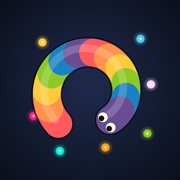
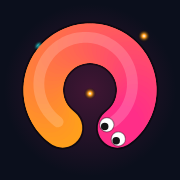
Rebrand with the Hot Sauce gradient instead of the rainbow (v1.8.0)
- Brand tokens in style.css: the "feast" wordmark and every primary
  button (Play, Play again, Resume, Back, Play here, update Reload) use
  the pink-to-orange Hot Sauce gradient with dark text.
- New app icons, Apple touch icon and favicon: the curled worm in the
  brand gradient on navy, inside the maskable safe zone, same file names.
  They are drawn by tools/make-icons.js (headless Chrome via the test
  helper); tools/ is exempt from the release bump.
- The browser theme colour stays arena navy.

Includes the OpenSpec change rebrand-hot-sauce.

Closes #59

diff --git a/tools/make-icons.js b/tools/make-icons.js
@@ -1,0 +1,97 @@
+#!/usr/bin/env node
+// Draws the app icons in the Hot Sauce brand colours (#59) and writes them to icons/.
+// Usage: node tools/make-icons.js   (needs Google Chrome; set CHROME_PATH if it isn't found)
+// Not part of the game: the release check ignores tools/. Commit the PNGs it writes.
+const fs = require('node:fs');
+const path = require('node:path');
+const { launch, REPO } = require('../tests/helpers/browser');
+
+// [file, size, with food dots]. The 512 icon is also the maskable one (manifest.webmanifest).
+const ICONS = [['icon-512.png', 512, true], ['icon-192.png', 192, true], ['apple-touch-icon.png', 180, true], ['favicon-64.png', 64, false]];
+
+// Runs in the browser. The curled worm stays inside the maskable safe zone: the centred
+// circle of 80% of the width (curl radius + body radius + outline <= 0.40 of the size).
+function draw(size, detailed) {
+  const c = document.createElement('canvas');
+  c.width = c.height = size;
+  const g = c.getContext('2d');
+  const TAU = Math.PI * 2, PINK = '#ff2e88', ORANGE = '#ff9f1c';
+  g.fillStyle = '#0b0f1c';
+  g.fillRect(0, 0, size, size);
+  const glow = g.createRadialGradient(size / 2, size / 2, 0, size / 2, size / 2, size * 0.48);
+  glow.addColorStop(0, 'rgba(255, 46, 136, 0.22)');
+  glow.addColorStop(1, 'rgba(255, 46, 136, 0)');
+  g.fillStyle = glow;
+  g.fillRect(0, 0, size, size);
+  if (detailed) {
+    for (const [x, y, col] of [[0.5, 0.52, ORANGE], [0.36, 0.62, PINK], [0.63, 0.66, '#ffd166'], [0.22, 0.26, '#2de2e6'], [0.8, 0.2, ORANGE]]) {
+      const dot = g.createRadialGradient(x * size, y * size, 0, x * size, y * size, size * 0.035);
+      dot.addColorStop(0, '#ffffff');
+      dot.addColorStop(0.3, col);
+      dot.addColorStop(1, 'rgba(0,0,0,0)');
+      g.fillStyle = dot;
+      g.beginPath();
+      g.arc(x * size, y * size, size * 0.035, 0, TAU);
+      g.fill();
+    }
+  }
+  // A C-shaped curl open at the bottom: tail at lower left, head at lower right.
+  const R = size * (detailed ? 0.26 : 0.24), r = size * (detailed ? 0.11 : 0.135), n = 48, P = [];
+  for (let i = 0; i < n; i++) {
+    const a = 2.3 * Math.PI - 1.6 * Math.PI * (i / (n - 1));
+    P.push([size / 2 + Math.cos(a) * R, size / 2 + Math.sin(a) * R]);
+  }
+  const rgb = (h) => [1, 3, 5].map((k) => parseInt(h.slice(k, k + 2), 16));
+  const mix = (k) => { const a = rgb(PINK), b = rgb(ORANGE); return `rgb(${a.map((v, j) => Math.round(v + (b[j] - v) * k)).join(',')})`; };
+  const trace = () => { g.beginPath(); g.moveTo(...P[n - 1]); for (let i = n - 2; i >= 0; i--) g.lineTo(...P[i]); };
+  g.lineCap = 'round';
+  g.lineJoin = 'round';
+  g.strokeStyle = 'rgba(0, 0, 0, 0.5)';
+  g.lineWidth = 2 * r + size * (detailed ? 0.02 : 0.04);
+  trace();
+  g.stroke();
+  g.lineWidth = 2 * r;
+  for (let i = n - 2; i >= 0; i--) { // tail to head, pink head fading to an orange tail
+    g.strokeStyle = mix(i / (n - 2));
+    g.beginPath();
+    g.moveTo(...P[i + 1]);
+    g.lineTo(...P[i]);
+    g.stroke();
+  }
+  g.save();
+  g.translate(-r * 0.22, -r * 0.3);
+  g.strokeStyle = 'rgba(255, 255, 255, 0.18)';
+  g.lineWidth = r * 0.55;
+  trace();
+  g.stroke();
+  g.restore();
+  const [hx, hy] = P[0], ang = Math.atan2(hy - P[1][1], hx - P[1][0]), ex = Math.cos(ang), ey = Math.sin(ang);
+  for (const side of [-1, 1]) {
+    const cx = hx + ex * r * 0.32 - ey * side * r * 0.46, cy = hy + ey * r * 0.32 + ex * side * r * 0.46;
+    g.beginPath();
+    g.arc(cx, cy, r * 0.36, 0, TAU);
+    g.fillStyle = '#ffffff';
+    g.fill();
+    g.lineWidth = Math.max(1, r * 0.06);
+    g.strokeStyle = 'rgba(0, 0, 0, 0.35)';
+    g.stroke();
+    g.beginPath();
+    g.arc(cx + ex * r * 0.14, cy + ey * r * 0.14, r * 0.19, 0, TAU);
+    g.fillStyle = '#141414';
+    g.fill();
+  }
+  return c.toDataURL('image/png');
+}
+
+(async () => {
+  const page = await launch();
+  try {
+    for (const [file, size, detailed] of ICONS) {
+      const url = await page.eval(`(${draw})(${size}, ${detailed})`);
+      fs.writeFileSync(path.join(REPO, 'icons', file), Buffer.from(url.split(',')[1], 'base64'));
+      console.log(`icons/${file} (${size}x${size})`);
+    }
+  } finally {
+    await page.close();
+  }
+})().catch((err) => { console.error(err); process.exit(1); });

diff --git a/style.css b/style.css
@@ -1,4 +1,12 @@
 * { box-sizing: border-box; }
+/* Brand (#59): the Hot Sauce gradient, for the wordmark and primary buttons. */
+:root {
+  --brand-a: #ff2e88;
+  --brand-b: #ff9f1c;
+  --brand: linear-gradient(90deg, var(--brand-a), var(--brand-b));
+  --brand-ink: #1a0612;    /* text on the gradient (about 5.3:1 on the pink end) */
+  --brand-shadow: #a3134f; /* the pressed 3D edge */
+}
 html, body {
   margin: 0;
   height: 100%;
@@ -151,7 +159,7 @@ button.ghost.danger { color: #ff8fa3; border-color: rgba(255,90,120,.35); }
   .buttons { flex-direction: column; }
 }
 h1 { margin: 0; font-size: 44px; font-weight: 900; letter-spacing: -.02em; }
-h1 span { background: linear-gradient(90deg, #ff595e, #ffca3a, #8ac926, #4cc9f0); -webkit-background-clip: text; background-clip: text; color: transparent; }
+h1 span { background: var(--brand); -webkit-background-clip: text; background-clip: text; color: transparent; }
 h2 { margin: 0 0 14px; font-size: 26px; }
 .tag { margin: 4px 0 18px; opacity: .65; }
 .label { text-align: left; font-size: 12px; text-transform: uppercase; letter-spacing: .1em; opacity: .65; margin: 14px 0 6px; }
@@ -184,11 +192,11 @@ input[type=range] { width: 100%; accent-color: #4cc9f0; }
 
 button.primary, button.ghost {
   width: 100%; margin-top: 18px; padding: 14px; font: inherit; font-size: 19px; font-weight: 800; cursor: pointer;
-  border: 0; border-radius: 14px; color: #10142a;
-  background: linear-gradient(90deg, #8ac926, #2ec4b6);
-  box-shadow: 0 6px 0 #1b7f6c; transition: transform .08s, box-shadow .08s;
+  border: 0; border-radius: 14px; color: var(--brand-ink);
+  background: var(--brand);
+  box-shadow: 0 6px 0 var(--brand-shadow); transition: transform .08s, box-shadow .08s;
 }
-button.primary:active { transform: translateY(4px); box-shadow: 0 2px 0 #1b7f6c; }
+button.primary:active { transform: translateY(4px); box-shadow: 0 2px 0 var(--brand-shadow); }
 button.ghost { margin-top: 10px; background: transparent; color: #cfd6f5; box-shadow: none; font-size: 15px; font-weight: 600; border: 1px solid rgba(255,255,255,.15); }
 
 .help { margin-top: 16px; font-size: 12.5px; opacity: .65; line-height: 1.9; }
@@ -212,7 +220,7 @@ kbd {
 #updateBanner button {
   font: inherit; cursor: pointer; border: 0; border-radius: 999px; padding: 7px 14px;
 }
-#updateReload { color: #10142a; background: linear-gradient(90deg, #8ac926, #2ec4b6); }
+#updateReload { color: var(--brand-ink); background: var(--brand); }
 #updateDismiss { color: #cfd6f5; background: transparent; padding: 7px 10px !important; }
 
 #best, #dBest { margin-top: 10px; font-size: 13px; color: #ffd60a; min-height: 1em; }

diff --git a/tests/browser/brand.test.js b/tests/browser/brand.test.js
@@ -1,0 +1,33 @@
+// Hot Sauce branding (#59). Run with `node --test "tests/**/*.test.js"`.
+const test = require('node:test');
+const assert = require('node:assert/strict');
+const fs = require('node:fs');
+const path = require('node:path');
+const { launch, gameUrl, REPO } = require('../helpers/browser');
+
+const PINK = 'rgb(255, 46, 136)', ORANGE = 'rgb(255, 159, 28)';
+const OLD = ['rgb(255, 89, 94)', 'rgb(255, 202, 58)', 'rgb(138, 201, 38)', 'rgb(76, 201, 240)', 'rgb(46, 196, 182)'];
+
+test('the wordmark and primary buttons use the brand gradient, not the rainbow (#59)', async (t) => {
+  let page;
+  t.after(() => page && page.close());
+  page = await launch();
+  await page.goto(gameUrl());
+  for (const sel of ['h1 span', '#play', '#again', '#resume', '#closeStats', '#playHere', '#updateReload']) {
+    const bg = await page.eval(`getComputedStyle(document.querySelector(${JSON.stringify(sel)})).backgroundImage`);
+    assert.ok(bg.includes(PINK) && bg.includes(ORANGE), `${sel} uses the brand gradient: ${bg}`);
+    assert.ok(OLD.every((c) => !bg.includes(c)), `${sel} has none of the old colours: ${bg}`);
+  }
+  assert.equal(await page.eval(`document.querySelector('meta[name="theme-color"]').content`), '#0b0f1c', 'status bar stays navy');
+  const manifest = JSON.parse(fs.readFileSync(path.join(REPO, 'manifest.webmanifest'), 'utf8'));
+  assert.equal(manifest.theme_color, '#0b0f1c');
+});
+
+test('the app icons exist at their declared sizes (#59)', () => {
+  // Width and height sit at bytes 16-23 of a PNG's IHDR chunk.
+  for (const [file, size] of [['icon-512.png', 512], ['icon-192.png', 192], ['apple-touch-icon.png', 180], ['favicon-64.png', 64]]) {
+    const png = fs.readFileSync(path.join(REPO, 'icons', file));
+    assert.equal(png.toString('ascii', 1, 4), 'PNG', `${file} is a PNG`);
+    assert.deepEqual([png.readUInt32BE(16), png.readUInt32BE(20)], [size, size], `${file} is ${size}x${size}`);
+  }
+});

diff --git a/tests/release.test.js b/tests/release.test.js
@@ -40,7 +40,8 @@ test('check-version.sh accepts higher versions and rejects lower or reused ones'
     git('checkout', '-q', 'pr'); git('reset', '-q', '--hard', 'main');
     write(file, `changed ${v}\n`);
     if (v) version(v);
-    git('commit', '-qam', `try ${v}`);
+    git('add', '-A');
+    git('commit', '-qm', `try ${v}`);
     return check();
   };
   const ok = (r, what) => assert.equal(r.status, 0, `${what}: ${r.stdout}${r.stderr}`);
@@ -53,4 +54,6 @@ test('check-version.sh accepts higher versions and rejects lower or reused ones'
   rejected(attempt(null), 'no bump', /did not/);
   rejected(attempt('1.5.2'), 'reused tag', /already released/);
   ok(attempt(null, 'README.md'), 'docs-only change without a bump');
+  fs.mkdirSync(path.join(repo, 'tools'), { recursive: true });
+  ok(attempt(null, 'tools/make-icons.js'), 'tools-only change without a bump (#59)');
 });

diff --git a/sw.js b/sw.js
@@ -1,7 +1,7 @@
 /* Wigglefeast service worker: offline play and versioned releases.
    Bump VERSION for every release that changes a shipped file (a PR check enforces this).
    Never reuse a version; roll back by publishing the old code under a higher version. */
-const VERSION = '1.7.0';
+const VERSION = '1.8.0';
 const CACHE = `wigglefeast-${VERSION}`;
 const FILES = [
   'index.html',

diff --git a/openspec/changes/rebrand-hot-sauce/design.md b/openspec/changes/rebrand-hot-sauce/design.md
@@ -1,0 +1,59 @@
+# Design
+
+## Context
+
+- **Current styles** (`style.css`):
+  - the wordmark gradient is `linear-gradient(90deg, #ff595e, #ffca3a, #8ac926, #4cc9f0)`
+  - `button.primary` and `#updateReload` share `linear-gradient(90deg, #8ac926, #2ec4b6)` with dark text `#10142a` and a 3D shadow `#1b7f6c`
+  - there are no colour tokens; colours are literals
+- **Icons** (`icons/`): `icon-192.png`, `icon-512.png` (also declared maskable in the manifest), `apple-touch-icon.png` (180 px) and `favicon-64.png`. They were added by hand in the first commit; there's no script.
+- **Manifest and theme:** `manifest.webmanifest` and `index.html` set the theme and background colour to `#0b0f1c`.
+- **Test helper:** `tests/helpers/browser.js` can already launch headless Chrome and evaluate code in a page.
+- **Release check:** `check-version.sh` exempts `README.md`, `LICENSE`, `.gitignore`, `openspec/`, `.github/`, `.claude/` and `tests/` from the version bump.
+
+## Goals / Non-Goals
+
+**Goals:**
+- One place to change the brand colours.
+- Icons reproducible from the repo, so a later tweak doesn't need a design tool.
+
+**Non-Goals:**
+- Theming every accent. Cyan stays the secondary accent.
+
+## Decisions
+
+### 1. Brand tokens in `style.css`, used by the wordmark and primary buttons
+- **Tokens:** add a `:root` block with `--brand-a: #ff2e88`, `--brand-b: #ff9f1c`, `--brand-ink: #1a0612` (dark text on the gradient) and `--brand-shadow: #a3134f` (the pressed 3D edge).
+- **Usage:** `h1 span`, `button.primary` and `#updateReload` use `linear-gradient(90deg, var(--brand-a), var(--brand-b))`, with dark text.
+- **Contrast:** `#1a0612` on `#ff2e88` is about 5.3:1, and higher on the orange end, which is enough for the bold button labels.
+- **Play here** already uses `button.primary`, so it follows automatically.
+
+*Alternative:* white text on the gradient. Rejected: about 3.4:1 on the pink end.
+
+### 2. Icons drawn by a script with headless Chrome: `tools/make-icons.js`
+- **What it does:** the script launches Chrome through `tests/helpers/browser.js` and draws each icon on a canvas, with the same proportions as the current icon:
+  - the navy arena
+  - a soft pink glow behind the worm
+  - a curl of radius 0.27 × size, worm radius 0.11 × size, in the brand gradient from head to tail, with a dark outline, gloss and eyes
+  - a few food dots in the brand colours
+- **Output:** it writes the PNGs with `canvas.toDataURL`, so no image library is needed.
+- **Safe zone:** the curl plus the body reaches 0.38 × size from the centre, inside the 0.40 maskable safe zone.
+- **Favicon:** the 64-pixel favicon skips the food dots and uses a thicker outline, so it reads at small size.
+- **Why `tools/`:** it isn't part of the game, so `check-version.sh` adds `tools/` to its exempt paths (the rule and its test are updated). The script reuses the test helper rather than duplicating Chrome setup.
+
+*Alternatives:*
+- Hand-drawn SVG icons: rejected, because the manifest needs PNGs, and converting SVG to PNG without dependencies isn't possible here.
+- Committing images made in an external tool: rejected, because they can't be reproduced.
+
+### 3. Theme colour unchanged
+The status bar stays `#0b0f1c`, so it blends with the arena. A pink bar over the game would be loud and would clash with the dark HUD.
+
+## Risks / Trade-offs
+
+- **iOS home-screen icons don't update** until the app is removed and added again. → This is a platform limit, noted in the README; the next manual check uses a fresh install.
+- **Chrome renders the canvas, so icons may differ by a pixel** between machines or versions. → Icons are generated once and committed; the script exists to make a deliberate regeneration possible, not to run in CI.
+- **Brand pink and orange are close to some food colours** (the `#f72585` and `#ff9f1c` food). → Food is small, glowing dots; the brand appears in the UI, not in the arena. No conflict in play.
+
+## Migration Plan
+
+No data changes. Bump `VERSION` (minor) so installed copies pick up the new styles and icons. To roll back, publish the previous code under a higher version.

diff --git a/openspec/changes/rebrand-hot-sauce/proposal.md b/openspec/changes/rebrand-hot-sauce/proposal.md
@@ -1,0 +1,38 @@
+# Proposal
+
+## Why
+
+The rainbow is the game's only identity, and it doesn't fit (tamsler/wigglefeast#59). It's in the logo's "feast" gradient, the app icon worm and a skin, and it uses the same hues as the food, so nothing reads as *Wigglefeast*. The user reviewed three directions in the Skin Lab and approved **Hot Sauce**: one gradient from pink `#ff2e88` to orange `#ff9f1c`. It's warm, suggests food, and stands out on the navy arena.
+
+## What Changes
+
+- **Logo:** the menu wordmark's "feast" uses the Hot Sauce gradient instead of the rainbow.
+- **Buttons:** the primary buttons (Play, Play again, Resume, Back, Play here, and Reload on the update banner) use the Hot Sauce gradient, with matching dark text and a pressed shadow.
+- **Icons:** the app icons (192 and 512 px, maskable), the Apple touch icon and the favicon are redrawn as the curled worm in the Hot Sauce gradient on the navy arena. The file names stay the same.
+- **Icon script:** the icons are generated by a script in the repo, so they can be regenerated later. The script lives in `tools/`, which the release check treats as not shipped.
+- **Unchanged:** the browser theme colour (status bar) stays arena navy.
+
+### Out of scope
+
+- Skins, including hiding Rainbow, which is handled by the skin change (#58).
+- Secondary UI accents (the cyan focus ring, range slider, difficulty buttons, BOOST badge). They stay as they are; cyan works as a complement to the brand.
+- A new typeface or wordmark shape, a splash screen, or store and social artwork.
+
+## Capabilities
+
+### New Capabilities
+- `branding`: the game's visual identity. The brand gradient, where it's used, and the app icon.
+
+### Modified Capabilities
+<!-- none: offline-app's icon requirement (sizes, maskable) is unchanged; only the artwork changes -->
+
+## Impact
+
+- `style.css`: brand colour tokens; the wordmark and primary button styles.
+- `icons/*.png`: regenerated, with the same names and sizes.
+- `tools/make-icons.js` (new, not shipped): draws the icons in headless Chrome using the test helper and writes the PNGs.
+- `.github/scripts/check-version.sh`: `tools/` joins the paths that don't need a release bump.
+- `README.md`: how to regenerate the icons.
+- `tests/`: style checks for the brand colours, icon dimensions, and the release-check exemption.
+- `sw.js`: `VERSION` bump. `FILES` is unchanged.
+- **Installed copies:** Chrome and Android refresh the icon when the update installs. iOS keeps the old home-screen icon until the app is removed and added again, which is a platform limit.

diff --git a/README.md b/README.md
@@ -49,13 +49,17 @@ Bot count (5–60) and difficulty (easy/normal/hard) are set in the menu. The ar
 
 `main` is protected: every change lands through a pull request, and the **Tests** and **Release version bumped** checks (the *Tests* and *Version check* workflows) must pass before it can merge. Merging to `main` deploys to GitHub Pages, but installed copies only pick up a release whose version changed:
 
-1. Bump `VERSION` at the top of `sw.js` (e.g. `'1.1.0'` → `'1.2.0'`) in the same PR as the change. The **Version check** on the PR fails with "Bump VERSION in sw.js" if you change a game file without doing this. Changes to `README.md`, `LICENSE`, `openspec/`, `.github/`, `.claude/` and `tests/` don't need a bump.
+1. Bump `VERSION` at the top of `sw.js` (e.g. `'1.1.0'` → `'1.2.0'`) in the same PR as the change. The **Version check** on the PR fails with "Bump VERSION in sw.js" if you change a game file without doing this. Changes to `README.md`, `LICENSE`, `openspec/`, `.github/`, `.claude/`, `tests/` and `tools/` don't need a bump.
 2. Merge. The **Tag release** workflow tags the commit `v<VERSION>` and publishes a [GitHub Release](https://github.com/tamsler/wigglefeast/releases) with notes generated from the merged PRs (versions with a suffix like `1.2.0-beta.1` are marked pre-release). Players get the new release downloaded in the background and see an **Update available → Reload** banner (never mid-run). Ignoring it is fine; it takes over on the next launch.
 3. Never reuse or lower a version: the PR check rejects a version that already has a tag or isn't higher than the one on `main` (SemVer order, so `1.6.0-beta.1` < `1.6.0`). To roll back, publish the old code under a **higher** version.
 
 When a release adds a new file the game loads, add it to `FILES` in `sw.js` too, or it won't work offline.
 
 You can run the checks locally: `.github/scripts/check-version.sh main` and `DRY_RUN=1 .github/scripts/release-tag.sh`.
+
+### App icons
+
+The icons in `icons/` (192 and 512 px, Apple touch icon, favicon) are drawn in the brand colours by a script: run `node tools/make-icons.js` (it needs Google Chrome, like the tests) and commit the PNGs it writes, with a `VERSION` bump. Keep the file names: the manifest and service worker refer to them. Chrome and Android pick up a new icon with the update; iOS keeps the old home-screen icon until the app is removed and added again.
 
 ## Tests
 

diff --git a/openspec/changes/rebrand-hot-sauce/tasks.md b/openspec/changes/rebrand-hot-sauce/tasks.md
@@ -1,0 +1,21 @@
+# Tasks
+
+## 1. Brand colours in the UI
+
+- [x] 1.1 Add the brand tokens to `style.css` and use them for the wordmark "feast", `button.primary` and `#updateReload` (dark text, brand pressed shadow); verify with a browser test that the wordmark's and the Play button's computed `background-image` contain `rgb(255, 46, 136)` and `rgb(255, 159, 28)` and none of the old rainbow colours, and visually with a headless screenshot of the menu at desktop and phone sizes
+
+## 2. App icons
+
+- [x] 2.1 Add `tools/make-icons.js` (headless Chrome via `tests/helpers/browser.js`, canvas drawing as in the design) and exempt `tools/` in `.github/scripts/check-version.sh`; verify the release test covers a `tools/`-only change passing without a bump
+- [x] 2.2 Generate and commit `icons/icon-192.png`, `icons/icon-512.png`, `icons/apple-touch-icon.png` and `icons/favicon-64.png`; verify with a test that each PNG has its expected size (from the PNG header), and visually that the worm stays inside the 80% maskable circle and reads at favicon size
+- [x] 2.3 Document regenerating the icons in the README (and that iOS keeps an old home-screen icon until it is re-added); verify the documented command runs
+
+## 3. Release and integration
+
+- [ ] 3.1 Bump `VERSION` in `sw.js` to the next minor version (`FILES` unchanged); run `node --test "tests/**/*.test.js"` and verify every test passes and `.github/scripts/check-version.sh main` passes after committing
+- [ ] 3.2 Manual check: the menu, buttons and update banner in the new colours on desktop and a phone, and a fresh install showing the new icon (Chrome/Android, plus iOS if available); verify by noting the result in the PR
+
+## Workflow follow-up
+
+- Open a PR that closes tamsler/wigglefeast#59, run the `pr-reviewer` agent, address its findings, and merge once checks pass.
+- Archive the change with `/opsx:archive` after merge.

diff --git a/openspec/changes/rebrand-hot-sauce/specs/branding/spec.md b/openspec/changes/rebrand-hot-sauce/specs/branding/spec.md
@@ -1,0 +1,29 @@
+# Spec Delta
+
+## Purpose
+
+The game's visual identity: the brand gradient, where it's used, and the app icon, so the game looks like one product everywhere.
+
+## ADDED Requirements
+
+### Requirement: Brand gradient
+The game's brand gradient SHALL be Hot Sauce, from pink #ff2e88 to orange #ff9f1c. The "feast" part of the menu wordmark and every primary action button (Play, Play again, Resume, Back, Play here, and the update banner's Reload) SHALL use it, with dark text. The logo SHALL NOT use a rainbow gradient. The browser theme colour SHALL stay the arena navy, #0b0f1c.
+
+#### Scenario: Main menu
+- **WHEN** the main menu shows
+- **THEN** "feast" in the wordmark is drawn in the pink-to-orange gradient, and the Play button uses the same gradient
+
+#### Scenario: Status bar
+- **WHEN** the game runs as an installed app
+- **THEN** the status bar or title bar is the arena navy
+
+### Requirement: App icon
+The installable app icons (192 and 512 px, including the maskable icon), the Apple touch icon and the favicon SHALL show the game's curled worm in the brand gradient, on the arena navy. The worm SHALL stay inside the maskable safe zone (the central circle of 80% of the icon's width), so platform icon masks never cut it. The icons SHALL be reproducible from a script in the repository.
+
+#### Scenario: Installing the app
+- **WHEN** the player installs the game or adds it to the home screen
+- **THEN** its icon is the pink-to-orange curled worm on navy, with no rainbow
+
+#### Scenario: Round icon mask
+- **WHEN** a platform crops the maskable icon to a circle
+- **THEN** the whole worm, including its eyes, is still visible
